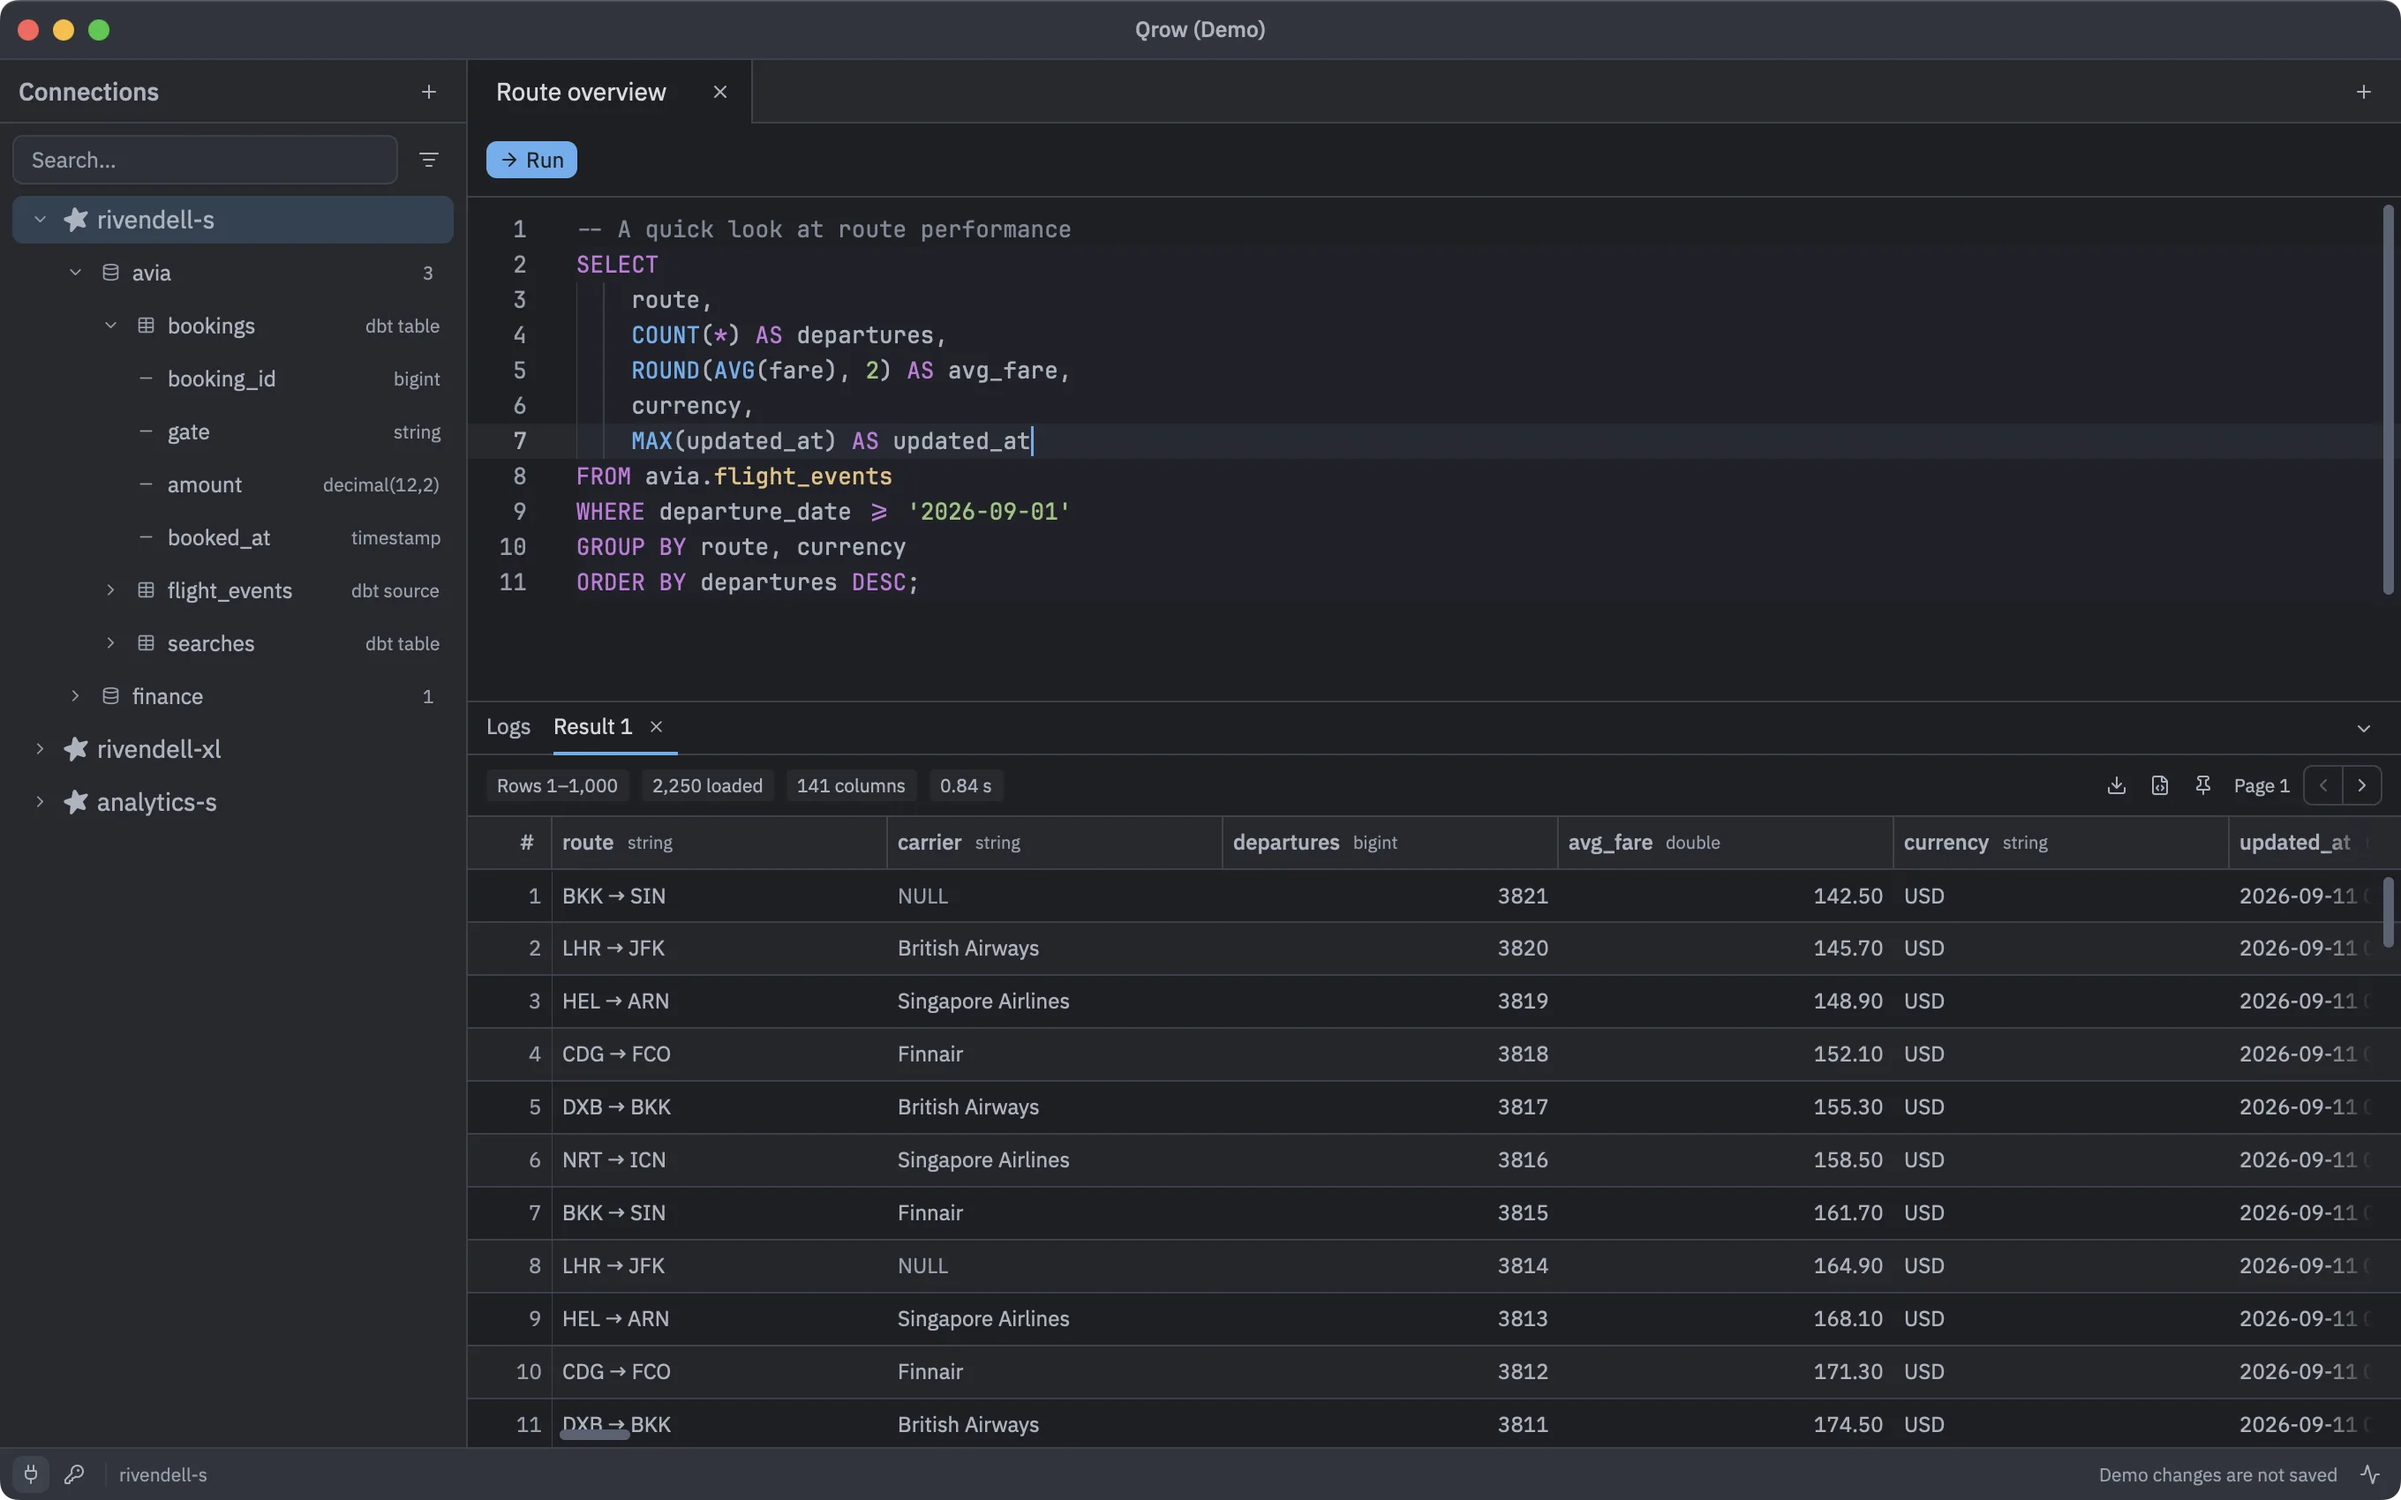
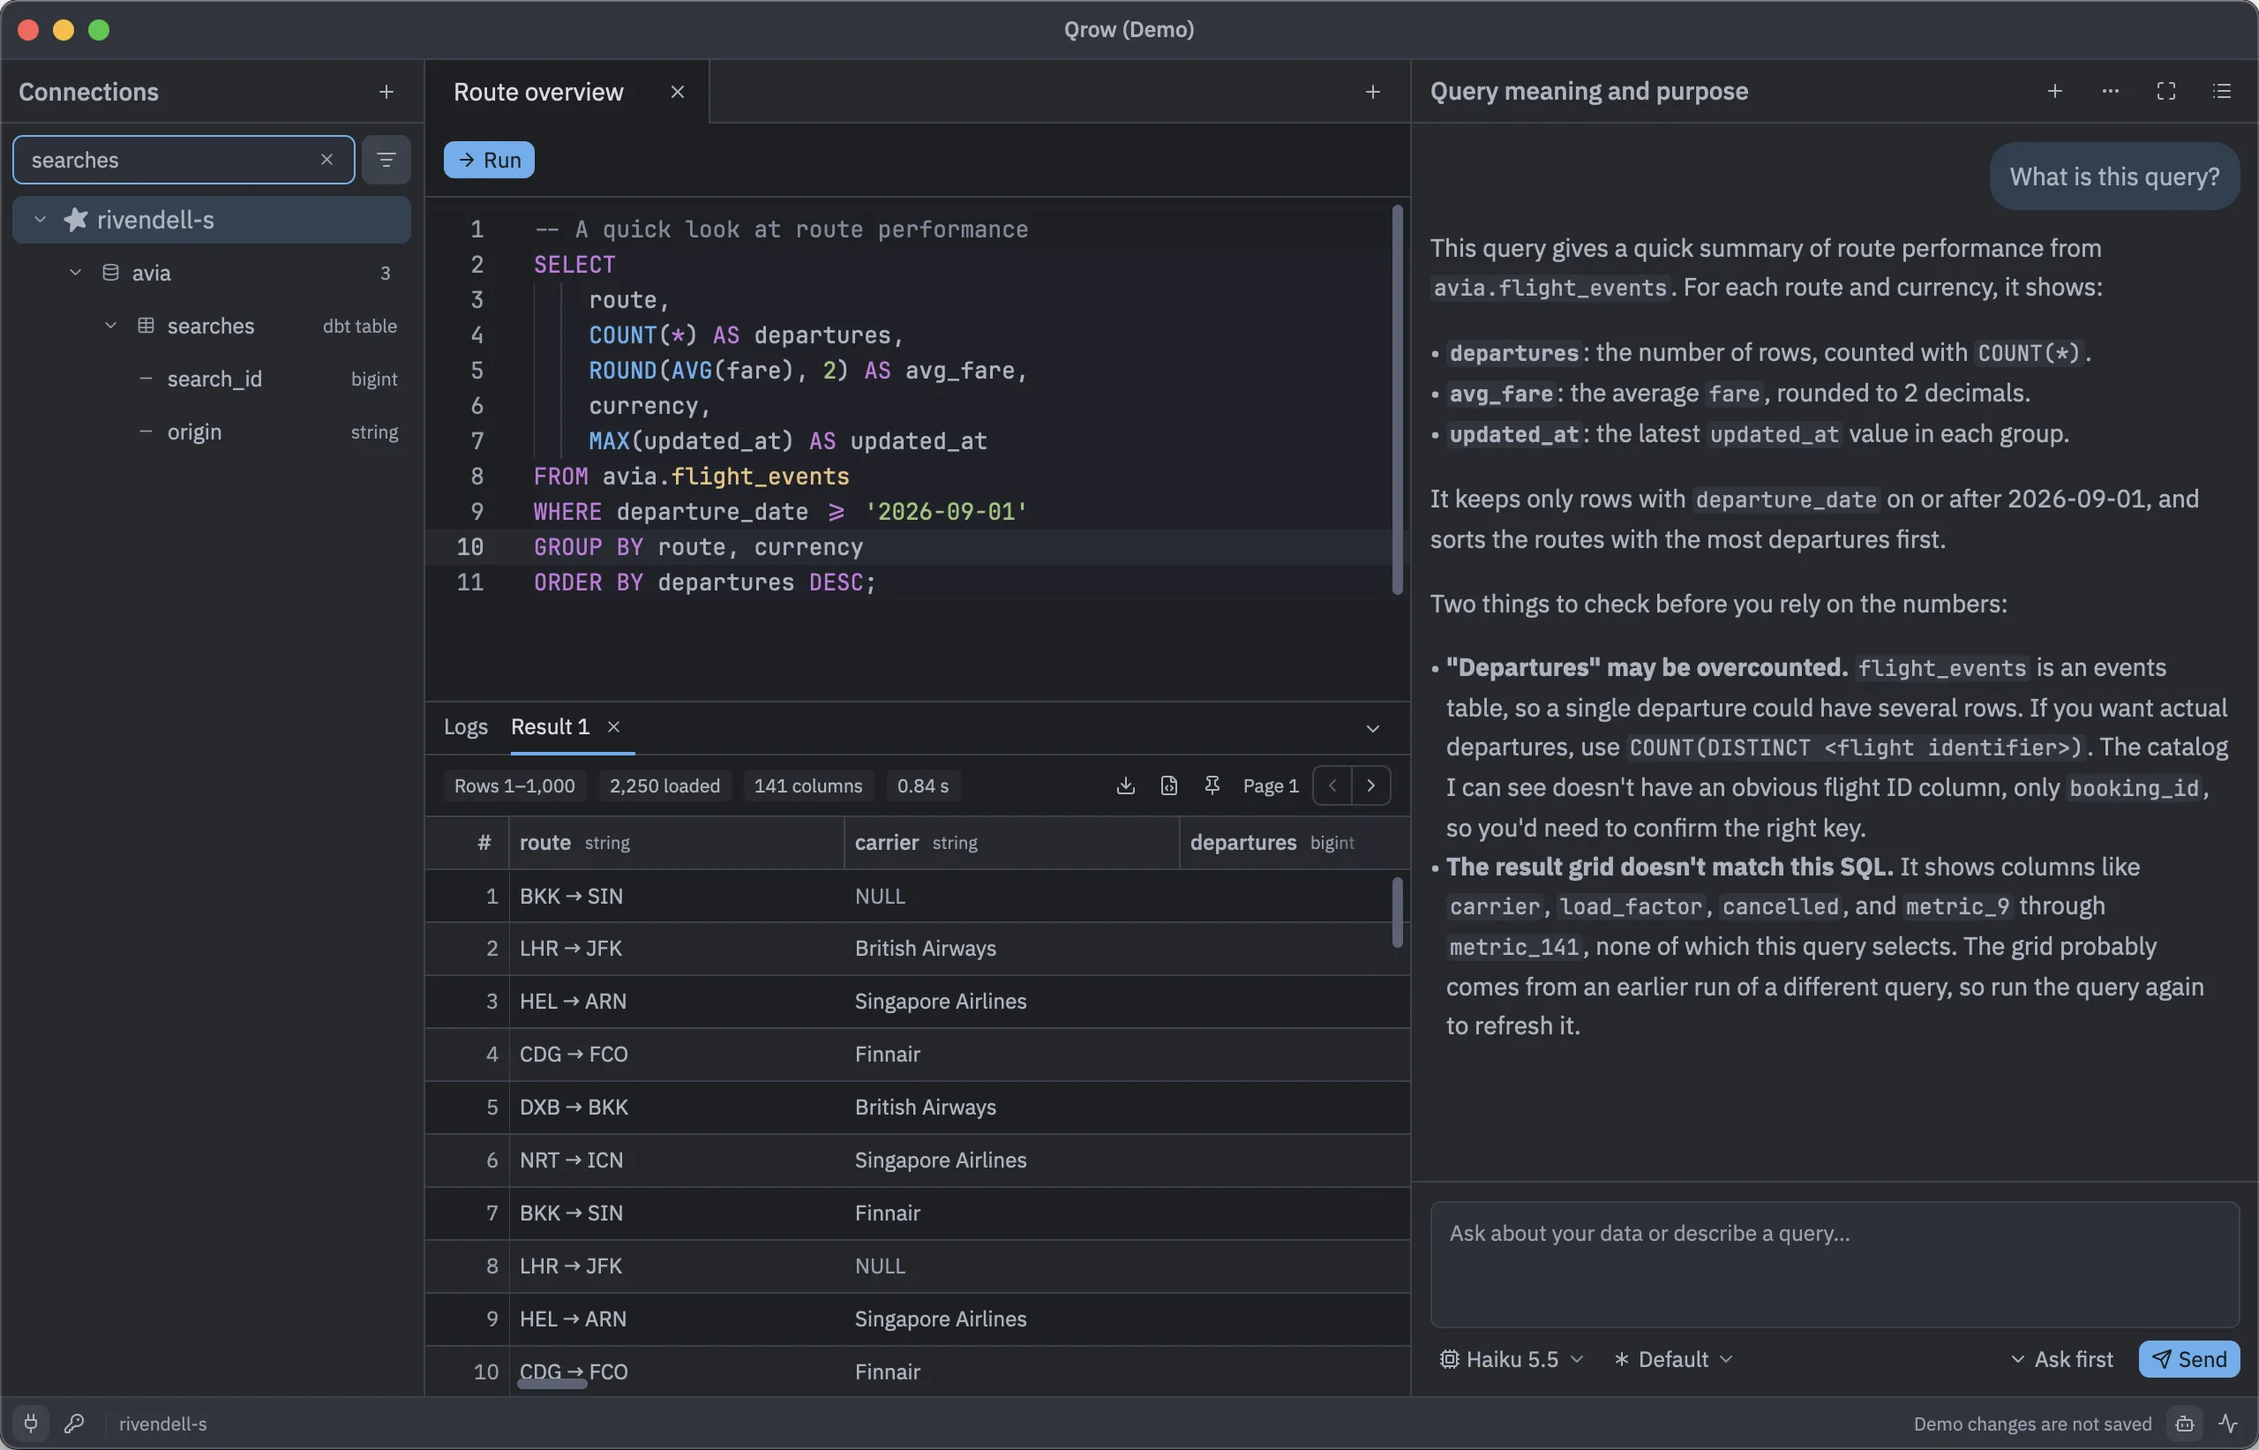
feat(website): use the README screenshot with the assistant
Use assets/screenshots/demo.png, which shows the assistant, in both
themes. The media script now crops it to the window and makes the WebP
and the social preview from it. Remove the light capture and the capture
directory. Keep the background glow inside the page width.

diff --git a/website/styles.css b/website/styles.css
@@ -67,7 +67,7 @@
   --glow: rgba(37, 99, 235, 0.06);
 }
 
-/* Theme-dependent visibility (screenshot, theme toggle icon). */
+/* Theme-dependent visibility (theme toggle icon). */
 .only-light { display: none !important; }
 @media (prefers-color-scheme: light) {
   :root:not([data-theme="dark"]) .only-light { display: block !important; }
@@ -134,7 +134,7 @@ a { color: inherit; text-decoration: none; }
 /* Hero */
 .hero { position: relative; padding: 80px var(--gutter) 0; text-align: center; }
 .hero::before {
-  content: ""; position: absolute; left: 50%; top: 320px; width: 1400px; height: 900px;
+  content: ""; position: absolute; left: 50%; top: 320px; width: min(1400px, 100%); height: 900px;
   transform: translateX(-50%);
   background: radial-gradient(closest-side, var(--glow), transparent);
   pointer-events: none; z-index: -1;
@@ -161,7 +161,7 @@ h1 { margin: 20px 0 0; color: var(--fg-strong); font-size: clamp(40px, 6vw, 56px
   background: var(--surface);
   box-shadow: var(--shadow);
 }
-.window img { width: 100%; aspect-ratio: 16 / 10; object-fit: cover; }
+.window img { width: 100%; }
 
 /* Status bar footer */
 .statusbar { margin-top: 96px; background: var(--chrome); border-top: 1px solid var(--border); font-size: 13px; color: var(--muted); }

diff --git a/website/index.html b/website/index.html
@@ -60,10 +60,8 @@
     </section>
 
     <figure class="window">
-      <img class="only-dark" src="media/hero.webp" width="2720" height="1700"
-           alt="Qrow with the schema catalog, a SQL query, and its results">
-      <img class="only-light" src="media/hero-light.webp" width="2720" height="1700" loading="lazy"
-           alt="Qrow in the light theme with the schema catalog, a SQL query, and its results">
+      <img src="media/hero.webp" width="2560" height="1643"
+           alt="Qrow with the schema catalog, a SQL query, its results, and the assistant panel">
     </figure>
   </main>
 

diff --git a/website/README.md b/website/README.md
@@ -43,19 +43,16 @@ done
 
 ## Update the screenshot
 
-The screenshot shows `qrow --demo`, so it contains only synthetic data.
+The page uses the first screenshot of the project README,
+[assets/screenshots/demo.png](../assets/screenshots/demo.png), in both themes.
+After a change of that file, make the web media again:
 
-1. Capture the Qrow window without its shadow as `website/capture/hero.png`
-   (One Dark theme) and `website/capture/hero-light.png` (light theme). Use a
-   window of 1360 × 850 points. Git ignores this directory.
-2. Convert the captures:
+```sh
+sh website/optimize-media.sh
+```
 
-   ```sh
-   sh website/optimize-media.sh
-   ```
-
-   The script writes `hero.webp`, `hero-light.webp`, and the social preview
-   `og.jpg` to `website/media/`.
+The script crops the screenshot to the window, and writes `hero.webp` and the
+social preview `og.jpg` to `website/media/`.
 
 ## Limitations
 
